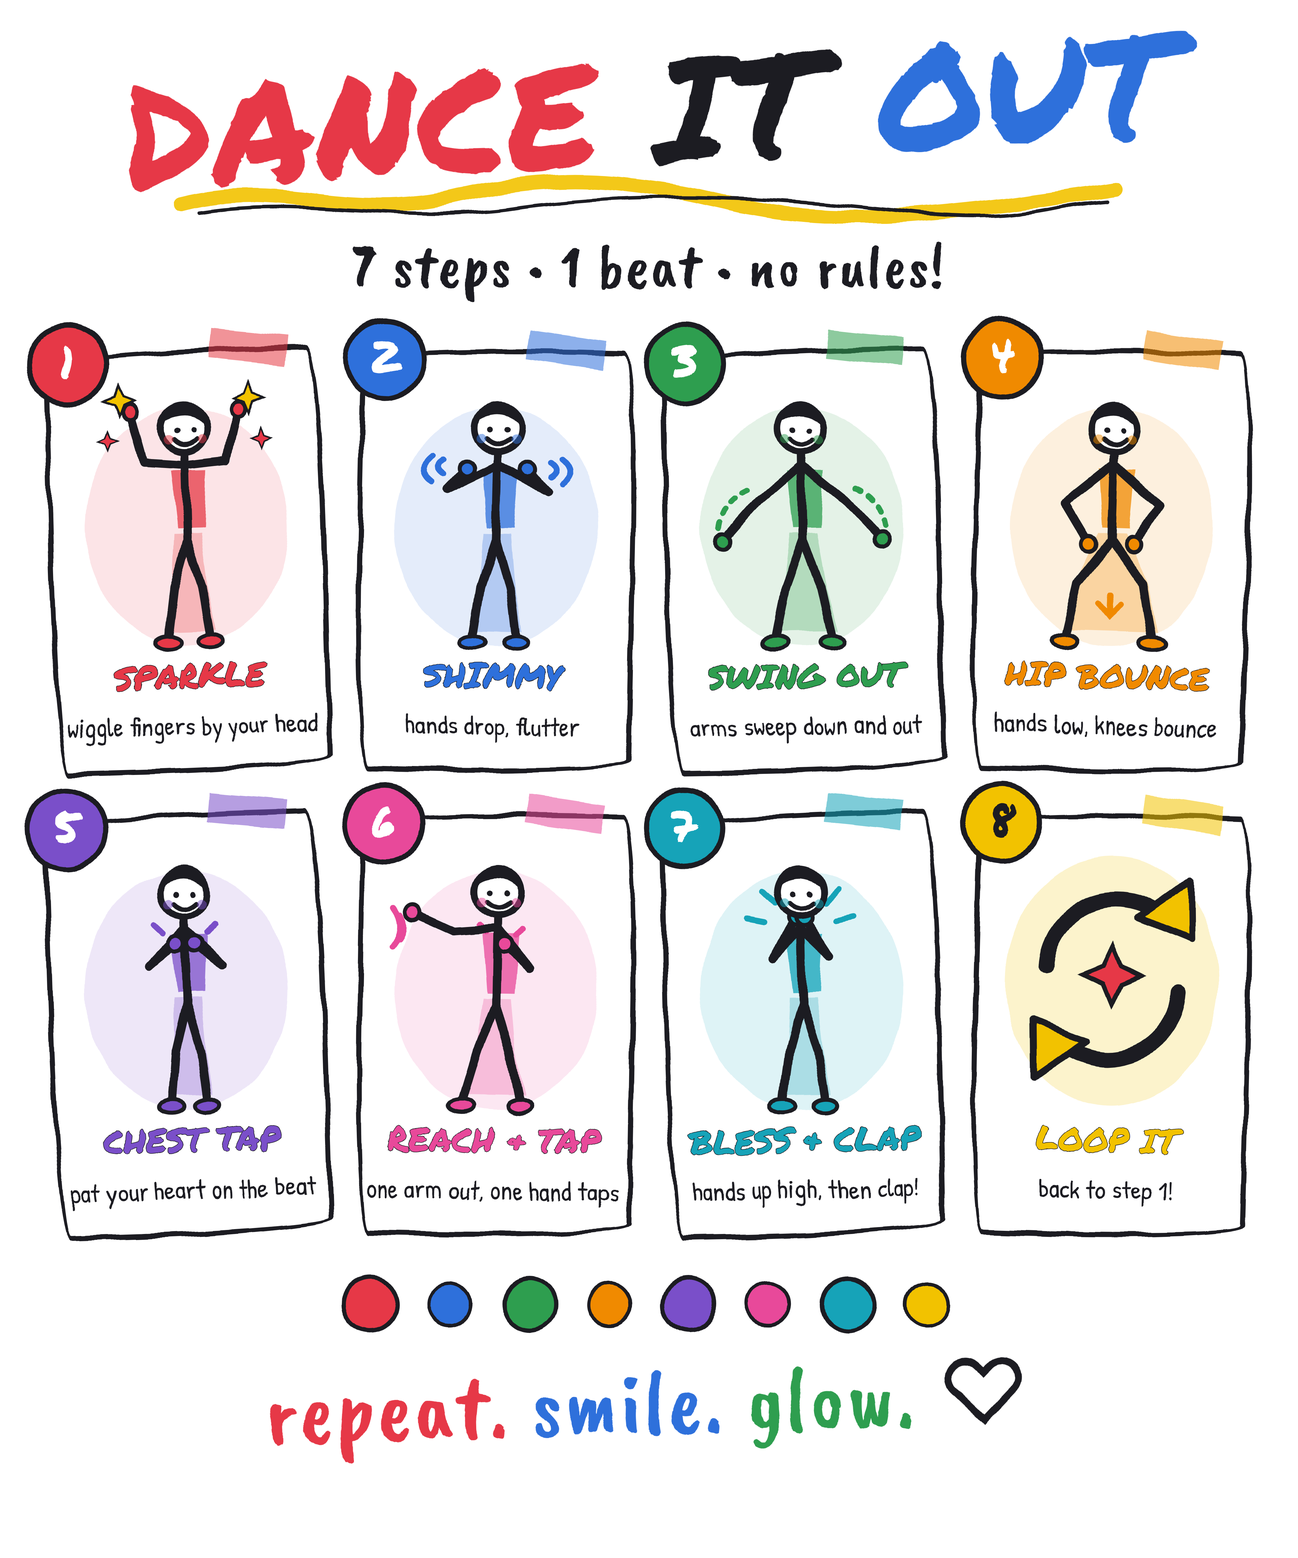
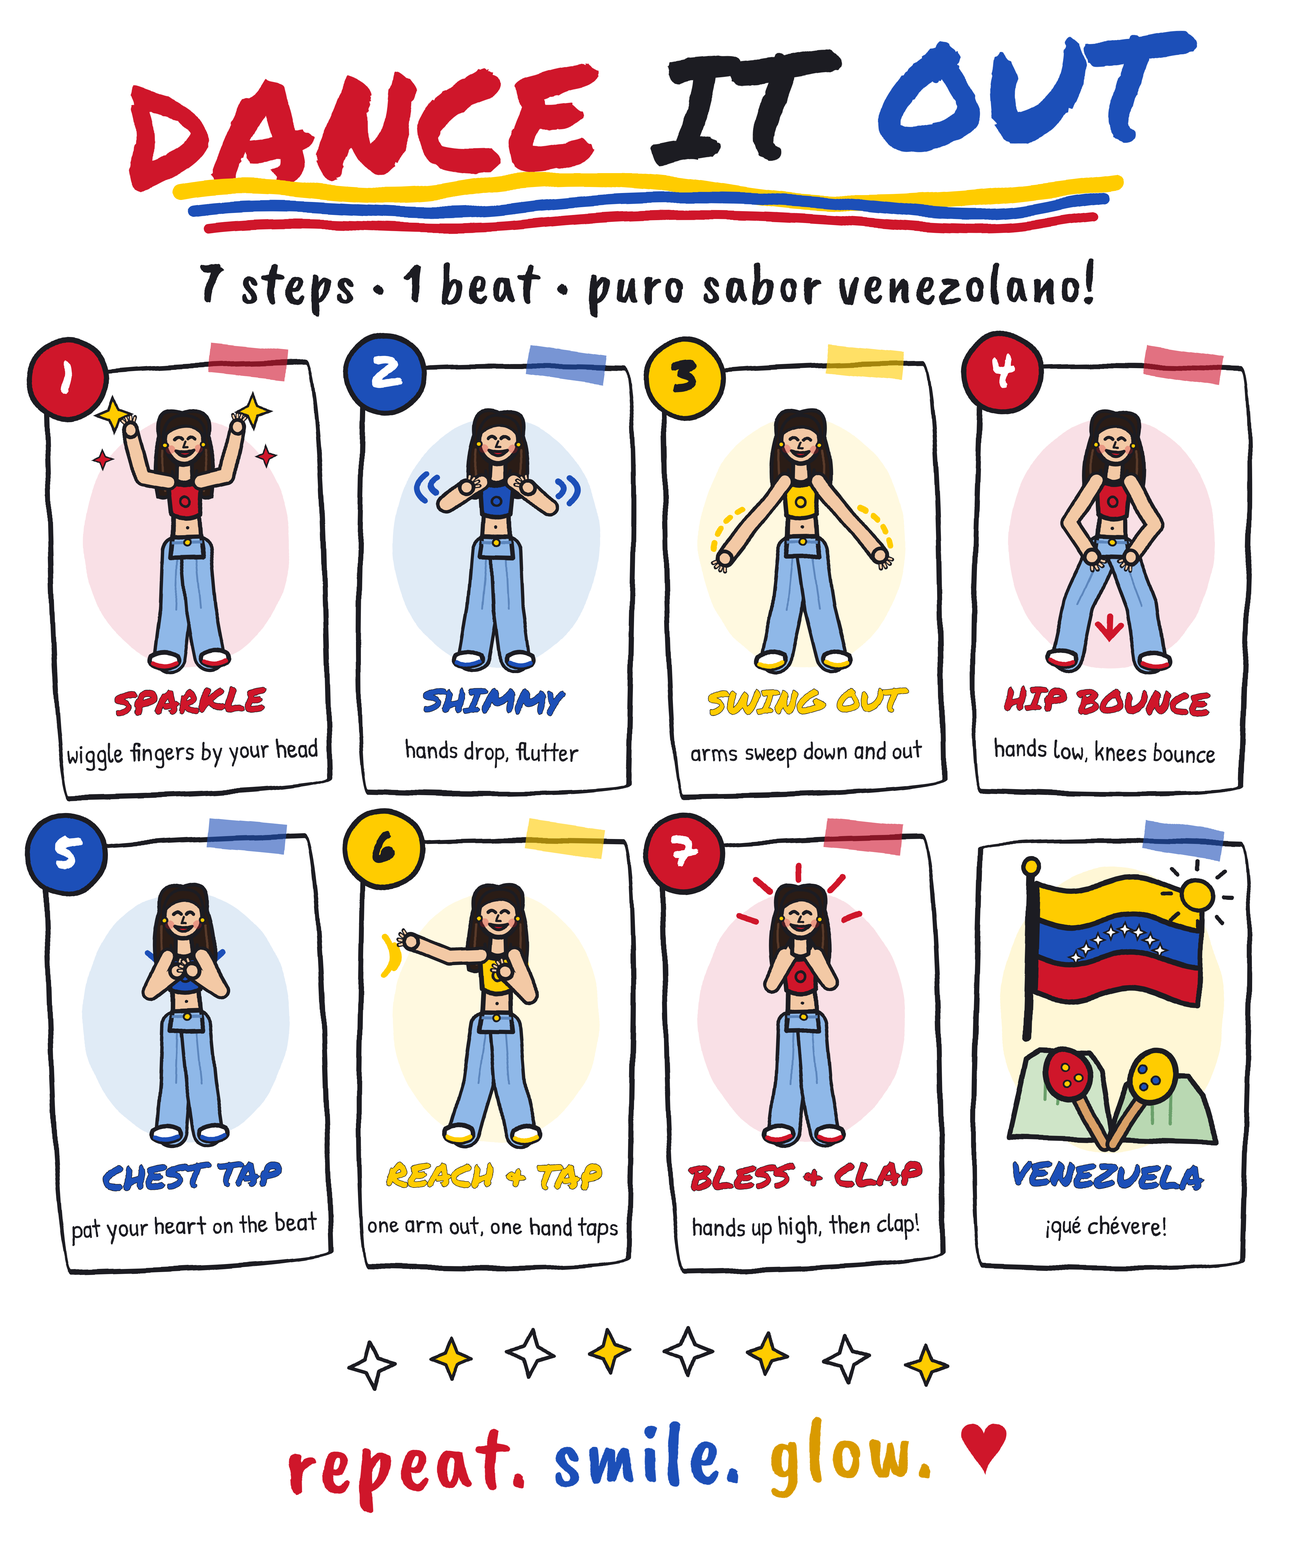
Detailed line-art dancers, Venezuelan flag theme, remove loop card
Claude-Session: https://claude.ai/code/session_01Nfcsyw4RtD1DsBygXYMqCj

diff --git a/infographic.html b/infographic.html
@@ -6,36 +6,34 @@
   @font-face{font-family:"Marker";src:url("fonts/Permanent_Marker.ttf")}
   @font-face{font-family:"Hand";src:url("fonts/Patrick_Hand.ttf")}
   @font-face{font-family:"Brush";src:url("fonts/Caveat_Brush.ttf")}
-  :root{--ink:#1d1d22;--red:#e63946;--blue:#2f6fdb;--green:#2e9e4f;--orange:#f08a00;--purple:#7a4fc9;--pink:#e84a9a;--teal:#14a3b8;--yellow:#f2c200;}
+  /* Venezuelan flag palette: yellow, blue, red */
+  :root{--ink:#1d1d22;--yellow:#ffcc00;--blue:#1d4fb8;--red:#cf142b;}
   html,body{margin:0;background:#fff;}
   #art{width:1500px;height:1800px;position:relative;overflow:hidden;color:var(--ink);background:#fff}
-  .paper{position:absolute;inset:0;pointer-events:none;
-    background:radial-gradient(ellipse at 50% 40%,rgba(255,255,255,0) 55%,rgba(120,100,60,.10) 100%);}
-  .paper svg{position:absolute;inset:0;width:100%;height:100%;opacity:.5;mix-blend-mode:multiply}
+  .paper{position:absolute;inset:0;pointer-events:none}
+  .paper svg{position:absolute;inset:0;width:100%;height:100%;opacity:.22;mix-blend-mode:multiply}
   .wob{filter:url(#wob)} .wob2{filter:url(#wob2)}
   h1{margin:0;text-align:center;font:400 168px/0.95 "Marker",cursive;padding-top:44px;transform:rotate(-3deg);letter-spacing:2px}
   h1 .r{color:var(--red)} h1 .b{color:var(--blue)}
-  .under{display:block;margin:-6px auto 0;width:1100px;height:60px}
-  .sub{text-align:center;font:400 70px "Brush",cursive;margin-top:6px;letter-spacing:2px}
-  .grid{display:grid;grid-template-columns:repeat(4,1fr);gap:44px 34px;padding:50px 56px 0;position:relative}
-  .card{border:6px solid var(--ink);border-radius:255px 18px 225px 18px/18px 225px 18px 255px;position:relative;height:480px;transform:rotate(var(--r));
-        background:rgba(255,255,255,.0)}
-  .card .tape{position:absolute;top:-22px;right:34px;width:90px;height:34px;background:var(--c);opacity:.55;transform:rotate(7deg)}
+  .under{display:block;margin:-4px auto 0;width:1100px;height:84px}
+  .sub{text-align:center;font:400 68px "Brush",cursive;margin-top:0;letter-spacing:2px}
+  .grid{display:grid;grid-template-columns:repeat(4,1fr);gap:46px 34px;padding:50px 56px 0;position:relative}
+  .card{border:6px solid var(--ink);border-radius:255px 18px 225px 18px/18px 225px 18px 255px;position:relative;height:490px;transform:rotate(var(--r))}
+  .card .tape{position:absolute;top:-22px;right:34px;width:90px;height:34px;background:var(--c);opacity:.6;transform:rotate(7deg)}
   .num{position:absolute;top:-38px;left:-26px;width:84px;height:84px;border-radius:50%;background:var(--c);border:6px solid var(--ink);
        font:400 52px/76px "Marker",cursive;text-align:center;color:#fff;z-index:2}
-  .card svg{position:absolute;left:0;top:20px;width:100%;height:335px;overflow:visible}
-  .name{position:absolute;bottom:80px;width:100%;text-align:center;font:400 38px "Marker",cursive;color:var(--c);white-space:nowrap;
+  .card svg{position:absolute;left:0;top:14px;width:100%;height:350px;overflow:visible}
+  .name{position:absolute;bottom:78px;width:100%;text-align:center;font:400 38px "Marker",cursive;color:var(--c);white-space:nowrap;
         -webkit-text-stroke:1.2px var(--ink);paint-order:stroke fill}
-  .cnt{position:absolute;bottom:30px;width:100%;text-align:center;font:400 30px "Hand",cursive;color:var(--ink);white-space:nowrap}
-  .beat{display:flex;justify-content:center;gap:26px;margin-top:44px}
-  .beat i{width:56px;height:56px;border-radius:50%;display:block;border:5px solid var(--ink)}
-  .foot{text-align:center;margin-top:14px;font:400 104px "Brush",cursive;letter-spacing:3px;transform:rotate(-1.5deg)}
-  .foot span{color:var(--red)} .foot b{color:var(--blue);font-weight:400} .foot u{color:var(--green);text-decoration:none}
+  .cnt{position:absolute;bottom:28px;width:100%;text-align:center;font:400 30px "Hand",cursive;color:var(--ink);white-space:nowrap}
+  .stars{display:block;margin:34px auto 0;width:760px;height:110px}
+  .foot{text-align:center;margin-top:0;font:400 104px "Brush",cursive;letter-spacing:3px;transform:rotate(-1.5deg)}
+  .foot span{color:var(--red)} .foot b{color:var(--blue);font-weight:400} .foot u{color:#d99a00;text-decoration:none} .foot i{color:var(--red);font-style:normal}
 </style></head>
 <body>
 <svg width="0" height="0" style="position:absolute">
   <filter id="wob" x="-5%" y="-5%" width="110%" height="110%"><feTurbulence type="fractalNoise" baseFrequency="0.018" numOctaves="2" seed="4" result="n"/>
-    <feDisplacementMap in="SourceGraphic" in2="n" scale="7" xChannelSelector="R" yChannelSelector="G"/></filter>
+    <feDisplacementMap in="SourceGraphic" in2="n" scale="6" xChannelSelector="R" yChannelSelector="G"/></filter>
   <filter id="wob2" x="-5%" y="-5%" width="110%" height="110%"><feTurbulence type="fractalNoise" baseFrequency="0.035" numOctaves="2" seed="9" result="n"/>
     <feDisplacementMap in="SourceGraphic" in2="n" scale="4" xChannelSelector="R" yChannelSelector="G"/></filter>
   <filter id="grain"><feTurbulence type="fractalNoise" baseFrequency="0.9" numOctaves="2" seed="2"/><feColorMatrix values="0 0 0 0 .55  0 0 0 0 .5  0 0 0 0 .4  0 0 0 .22 0"/></filter>
@@ -43,82 +41,147 @@
 <div id="art">
   <div class="paper"><svg><rect width="100%" height="100%" filter="url(#grain)"/></svg></div>
   <h1 class="wob2"><span class="r">DANCE</span> IT <span class="b">OUT</span></h1>
-  <svg class="under wob" viewBox="0 0 1100 60"><path d="M10 38 C120 8 200 58 320 30 S520 8 640 36 S860 56 1090 20" fill="none" stroke="#f2c200" stroke-width="16" stroke-linecap="round" opacity=".9"/>
-    <path d="M30 48 C160 28 260 62 400 42 S700 30 840 46 S1000 40 1080 34" fill="none" stroke="#1d1d22" stroke-width="4" stroke-linecap="round"/></svg>
-  <div class="sub wob2">7 steps &bull; 1 beat &bull; no rules!</div>
+  <!-- tricolour marker underline: yellow / blue / red -->
+  <svg class="under wob" viewBox="0 0 1100 84">
+    <path d="M10 22 C120 0 200 40 320 20 S520 2 640 22 S860 40 1090 10" fill="none" stroke="#ffcc00" stroke-width="18" stroke-linecap="round"/>
+    <path d="M24 44 C150 26 260 58 400 40 S700 26 840 42 S1000 36 1076 28" fill="none" stroke="#1d4fb8" stroke-width="13" stroke-linecap="round"/>
+    <path d="M40 64 C170 48 280 74 420 58 S700 48 840 60 S1000 56 1064 50" fill="none" stroke="#cf142b" stroke-width="11" stroke-linecap="round"/>
+  </svg>
+  <div class="sub wob2">7 steps &bull; 1 beat &bull; puro sabor venezolano!</div>
   <div class="grid wob" id="grid"></div>
-  <div class="beat wob" id="beat"></div>
-  <div class="foot wob2"><span>repeat.</span> <b>smile.</b> <u>glow.</u> &#9825;</div>
+  <svg class="stars wob" id="stars" viewBox="0 0 760 110"></svg>
+  <div class="foot wob2"><span>repeat.</span> <b>smile.</b> <u>glow.</u> <i>&#9829;</i></div>
 </div>
 <script>
 // Poses reconstructed from frames of a tutorial screen recording (about 3.7s, 8 fps).
-// joints on a 100x140 canvas: [x,y]
-const INK="#1d1d22";
-const base={neck:[50,32],hip:[50,80]};
-const col=["#e63946","#2f6fdb","#2e9e4f","#f08a00","#7a4fc9","#e84a9a","#14a3b8","#f2c200"];
+// Joint coordinates on a 100x140 canvas: [x,y]
+const INK="#1d1d22", SKIN="#f3c9a5", HAIR="#2b1a14", DENIM="#8fb8e8";
+const RED="#cf142b", BLUE="#1d4fb8", YEL="#ffcc00";
+const col=[RED,BLUE,YEL,RED,BLUE,YEL,RED];
 const poses=[
  {n:"SPARKLE",r:"-1.5deg",cnt:"wiggle fingers by your head",
-  lE:[27,36],lH:[20,8],rE:[73,36],rH:[80,8],lK:[42,106],lF:[38,134],rK:[58,106],rF:[62,134],fx:"spark"},
+  lE:[27,36],lH:[21,10],rE:[73,36],rH:[79,10],lK:[43,108],lF:[39,134],rK:[57,108],rF:[61,134],fx:"spark"},
  {n:"SHIMMY",r:"1.2deg",cnt:"hands drop, flutter",
-  lE:[22,52],lH:[33,40],rE:[78,52],rH:[67,40],lK:[42,106],lF:[38,134],rK:[58,106],rF:[62,134],fx:"shimmy"},
+  lE:[22,52],lH:[33,42],rE:[78,52],rH:[67,42],lK:[43,108],lF:[39,134],rK:[57,108],rF:[61,134],fx:"shimmy"},
  {n:"SWING OUT",r:"-1deg",cnt:"arms sweep down and out",
-  lE:[26,58],lH:[6,80],rE:[74,58],rH:[94,80],lK:[40,106],lF:[34,134],rK:[60,106],rF:[66,134],fx:"swish"},
+  lE:[26,58],lH:[8,80],rE:[74,58],rH:[92,80],lK:[41,108],lF:[35,134],rK:[59,108],rF:[65,134],fx:"swish"},
  {n:"HIP BOUNCE",r:"1.8deg",cnt:"hands low, knees bounce",
-  lE:[24,60],lH:[38,82],rE:[76,60],rH:[62,82],lK:[32,104],lF:[26,134],rK:[68,104],rF:[74,134],fx:"bounce"},
+  lE:[27,62],lH:[40,80],rE:[73,62],rH:[60,80],lK:[33,106],lF:[28,134],rK:[67,106],rF:[72,134],fx:"bounce"},
  {n:"CHEST TAP",r:"-1.8deg",cnt:"pat your heart on the beat",
-  lE:[30,58],lH:[45,46],rE:[70,58],rH:[55,46],lK:[43,106],lF:[40,134],rK:[57,106],rF:[60,134],fx:"tap"},
+  lE:[31,58],lH:[46,47],rE:[69,58],rH:[54,47],lK:[43,108],lF:[40,134],rK:[57,108],rF:[60,134],fx:"tap"},
  {n:"REACH & TAP",r:"1deg",cnt:"one arm out, one hand taps",
-  lE:[26,40],lH:[3,30],rE:[68,60],rH:[54,47],lK:[40,106],lF:[32,134],rK:[58,106],rF:[64,134],fx:"reach"},
+  lE:[24,40],lH:[3,32],rE:[68,60],rH:[54,48],lK:[41,108],lF:[34,134],rK:[58,108],rF:[64,134],fx:"reach"},
  {n:"BLESS & CLAP",r:"-1.2deg",cnt:"hands up high, then clap!",
-  lE:[34,54],lH:[48,32],rE:[66,54],rH:[52,32],lK:[42,106],lF:[38,134],rK:[58,106],rF:[62,134],fx:"burst"}
+  lE:[34,54],lH:[48,33],rE:[66,54],rH:[52,33],lK:[43,108],lF:[39,134],rK:[57,108],rF:[61,134],fx:"burst"}
 ];
-const L=(a,b,w,c)=>`<line x1="${a[0]}" y1="${a[1]}" x2="${b[0]}" y2="${b[1]}" stroke="${c}" stroke-width="${w}" stroke-linecap="round"/>`;
+const P=(a)=>a[0]+" "+a[1];
+const line=(a,b,w,c)=>`<line x1="${a[0]}" y1="${a[1]}" x2="${b[0]}" y2="${b[1]}" stroke="${c}" stroke-width="${w}" stroke-linecap="round"/>`;
+// outlined "tube" limb through a chain of points: ink outline first, then fill on top (no inner joint lines)
+function tube(pts,w,fill){
+  let o="",f="";
+  for(let i=0;i<pts.length-1;i++){o+=line(pts[i],pts[i+1],w+3.6,INK);f+=line(pts[i],pts[i+1],w,fill);}
+  return o+f;
+}
 const star=(x,y,s,c)=>`<path transform="translate(${x} ${y}) scale(${s})" d="M0 -7l2 5 5 2-5 2-2 5-2-5-5-2 5-2z" fill="${c}" stroke="${INK}" stroke-width="1"/>`;
 function fx(p,c){
   const T=p.fx,S=`stroke="${c}" stroke-width="3.2" fill="none" stroke-linecap="round"`;
-  if(T==="spark")return star(14,2,1.2,"#f2c200")+star(86,2,1.2,"#f2c200")+star(8,24,.8,c)+star(92,24,.8,c);
-  if(T==="shimmy")return `<path d="M20 36q-6 4 0 8M14 34q-9 7 0 14M80 36q6 4 0 8M86 34q9 7 0 14" ${S}/>`;
-  if(T==="swish")return `<path d="M20 52q-14 6-16 22M80 52q14 6 16 22" ${S} stroke-dasharray="3 5"/>`;
-  if(T==="bounce")return `<path d="M50 110v10m-6-5l6 7 6-7" ${S}/>`;
-  if(T==="tap")return `<path d="M38 40l-5-5M62 40l5-5M50 36v-6" ${S}/>`;
-  if(T==="reach")return `<path d="M-4 44q4-6 0-12M-8 48q8-10 0-20" ${S}/><path d="M44 40l-4-4M60 42l4-4" ${S}/>`;
-  if(T==="burst")return `<path d="M50 20v-10M36 24l-7-7M64 24l7-7M30 34l-10-2M70 34l10-2" ${S}/>`;
+  if(T==="spark")return star(12,2,1.3,YEL)+star(88,2,1.3,YEL)+star(6,26,.8,c)+star(94,26,.8,c);
+  if(T==="shimmy")return `<path d="M17 38q-6 4 0 8M11 36q-9 7 0 14M83 38q6 4 0 8M89 36q9 7 0 14" ${S}/>`;
+  if(T==="swish")return `<path d="M18 54q-14 6-16 24M82 54q14 6 16 24" ${S} stroke-dasharray="3 5"/>`;
+  if(T==="bounce")return `<path d="M50 112v10m-6-5l6 7 6-7" ${S}/>`;
+  if(T==="tap")return `<path d="M36 42l-6-5M64 42l6-5M50 38v-8" ${S}/>`;
+  if(T==="reach")return `<path d="M-6 46q4-6 0-12M-11 50q8-10 0-20" ${S}/><path d="M60 46l-3-5M66 48l-1-6" ${S}/>`;
+  if(T==="burst")return `<path d="M50 -2v-8M34 4l-7-7M66 4l7-7M26 20l-9-3M74 20l9-3" ${S}/>`;
   return "";
 }
+function fingers(e,h){
+  const dx=h[0]-e[0],dy=h[1]-e[1],m=Math.hypot(dx,dy)||1,ux=dx/m,uy=dy/m;
+  let s="";
+  [-34,-12,12,34].forEach(a=>{const r=a*Math.PI/180,c=Math.cos(r),sn=Math.sin(r);
+    const vx=ux*c-uy*sn,vy=ux*sn+uy*c;
+    s+=`<line x1="${h[0]+vx*3}" y1="${h[1]+vy*3}" x2="${h[0]+vx*7}" y2="${h[1]+vy*7}" stroke="${INK}" stroke-width="2.2" stroke-linecap="round"/>`;
+    s+=`<line x1="${h[0]+vx*3}" y1="${h[1]+vy*3}" x2="${h[0]+vx*6.6}" y2="${h[1]+vy*6.6}" stroke="${SKIN}" stroke-width="1" stroke-linecap="round"/>`;});
+  return s;
+}
 function figure(p,c){
-  const sh=[50,38];
-  // marker-coloured shirt, slightly off the lines like real colouring
-  const shirt=`<path d="M40 40 L60 40 L58 72 L43 72 Z" fill="${c}" opacity=".75" transform="translate(2 1)"/>`;
-  const pants=`<path d="M43 76 L58 76 L${p.rK[0]+3} ${p.rK[1]} L${p.rF[0]+3} ${p.rF[1]-4} L${p.lF[0]-1} ${p.lF[1]-4} L${p.lK[0]-1} ${p.lK[1]} Z" fill="${c}" opacity=".28"/>`;
-  const body=L(base.neck,base.hip,4.6,INK)+
-    L(sh,p.lE,4.6,INK)+L(p.lE,p.lH,4.6,INK)+L(sh,p.rE,4.6,INK)+L(p.rE,p.rH,4.6,INK)+
-    L(base.hip,p.lK,4.8,INK)+L(p.lK,p.lF,4.8,INK)+L(base.hip,p.rK,4.8,INK)+L(p.rK,p.rF,4.8,INK);
-  const hands=[p.lH,p.rH].map(h=>`<circle cx="${h[0]}" cy="${h[1]}" r="4.2" fill="${c}" stroke="${INK}" stroke-width="2.2"/>`).join("");
-  const shoes=[p.lF,p.rF].map(f=>`<ellipse cx="${f[0]}" cy="${f[1]+2}" rx="7" ry="3.6" fill="${c}" stroke="${INK}" stroke-width="2.2"/>`).join("");
-  const head=`<circle cx="50" cy="18" r="13" fill="#fff" stroke="${INK}" stroke-width="3.6"/>
-    <path d="M37 16 Q40 3 52 5 Q63 6 63 17 Q55 9 46 11 Q40 12 37 16Z" fill="${INK}"/>
-    <circle cx="45.5" cy="19" r="1.6" fill="${INK}"/><circle cx="55" cy="19" r="1.6" fill="${INK}"/>
-    <path d="M44 24 Q50 30 57 24" stroke="${INK}" stroke-width="2.6" fill="none" stroke-linecap="round"/>
-    <circle cx="41" cy="24" r="2.6" fill="${c}" opacity=".5"/><circle cx="60" cy="24" r="2.6" fill="${c}" opacity=".5"/>`;
-  return pants+shirt+body+hands+shoes+head;
+  const sL=[41,39],sR=[59,39],hipL=[45,77],hipR=[55,77];
+  // long dark hair behind the body
+  const hairBack=`<path d="M37 14Q35 -3 50 2Q66 -3 63 14Q68 30 65 47Q58 50 57 41L43 41Q42 50 35 47Q32 30 37 14Z" fill="${HAIR}" stroke="${INK}" stroke-width="2"/>
+    <path d="M38 22Q37 34 39 44M62 22Q63 34 61 44" stroke="#5a3a2a" stroke-width="1.2" fill="none" stroke-linecap="round"/>`;
+  // wide-leg jeans
+  const legs=tube([hipL,p.lK,p.lF],14.5,DENIM)+tube([hipR,p.rK,p.rF],14.5,DENIM);
+  const seams=line(hipL,p.lK,1,"#5b86bd")+line(hipR,p.rK,1,"#5b86bd");
+  const waist=`<path d="M42.5 68H57.5L59 80H41Z" fill="${DENIM}" stroke="${INK}" stroke-width="2.4" stroke-linejoin="round"/>
+    <path d="M42 72H58" stroke="#5b86bd" stroke-width="1.6"/><circle cx="50" cy="72" r="1.8" fill="${YEL}" stroke="${INK}" stroke-width="1"/>`;
+  const shoes=[[p.lF,-3],[p.rF,3]].map(([f,dx])=>`<path d="M${f[0]-7+dx} ${f[1]-1}Q${f[0]+dx} ${f[1]-5} ${f[0]+7+dx} ${f[1]-1}Q${f[0]+10+dx} ${f[1]+5} ${f[0]+dx} ${f[1]+6}Q${f[0]-10+dx} ${f[1]+5} ${f[0]-7+dx} ${f[1]-1}Z" fill="#fff" stroke="${INK}" stroke-width="2.4" stroke-linejoin="round"/>
+    <path d="M${f[0]-6+dx} ${f[1]+3}Q${f[0]+dx} ${f[1]+6} ${f[0]+6+dx} ${f[1]+3}" stroke="${c}" stroke-width="2.4" fill="none" stroke-linecap="round"/>`).join("");
+  // midriff + halter crop top
+  const mid=`<path d="M43 56Q50 60 57 56L57.5 69H42.5Z" fill="${SKIN}" stroke="${INK}" stroke-width="2.4" stroke-linejoin="round"/><circle cx="50" cy="64" r=".9" fill="${INK}"/>`;
+  const top=`<path d="M40.5 38Q50 44 59.5 38L58 57Q50 61 42 57Z" fill="${c}" stroke="${INK}" stroke-width="2.4" stroke-linejoin="round"/>
+    <circle cx="50" cy="50" r="2.6" fill="none" stroke="${INK}" stroke-width="1.4"/><path d="M45 41L43 33M55 41L57 33" stroke="${INK}" stroke-width="1.6" stroke-linecap="round"/>`;
+  // arms
+  const arms=tube([sL,p.lE,p.lH],6.4,SKIN)+tube([sR,p.rE,p.rH],6.4,SKIN);
+  const hands=[p.lH,p.rH].map((h,i)=>fingers(i?p.rE:p.lE,h)+`<circle cx="${h[0]}" cy="${h[1]}" r="3.8" fill="${SKIN}" stroke="${INK}" stroke-width="2"/>`).join("");
+  // neck + head + face
+  const neck=`<path d="M46 27H54L54.5 38Q50 41 45.5 38Z" fill="${SKIN}" stroke="${INK}" stroke-width="2.2" stroke-linejoin="round"/>`;
+  const head=`<ellipse cx="50" cy="17" rx="10.5" ry="12.5" fill="${SKIN}" stroke="${INK}" stroke-width="2.6"/>
+    <path d="M39 15Q40 2 52 3.5Q62 4 61 15Q57 8 49 9Q42 10 39 15Z" fill="${HAIR}" stroke="${INK}" stroke-width="1.6" stroke-linejoin="round"/>
+    <path d="M44.5 16Q46.5 13.8 48.5 16M51.5 16Q53.5 13.8 55.5 16" stroke="${INK}" stroke-width="1.8" fill="none" stroke-linecap="round"/>
+    <path d="M50 17.5l-1.2 3.2h2.4" stroke="${INK}" stroke-width="1.2" fill="none" stroke-linecap="round" stroke-linejoin="round"/>
+    <path d="M45 22.4Q50 28.5 55 22.4Q50 24 45 22.4Z" fill="${RED}" stroke="${INK}" stroke-width="1.6" stroke-linejoin="round"/>
+    <circle cx="42.3" cy="21.5" r="2.4" fill="${RED}" opacity=".28"/><circle cx="57.7" cy="21.5" r="2.4" fill="${RED}" opacity=".28"/>
+    <circle cx="39.6" cy="19" r="1.5" fill="${YEL}" stroke="${INK}" stroke-width="1"/><circle cx="60.4" cy="19" r="1.5" fill="${YEL}" stroke="${INK}" stroke-width="1"/>`;
+  return hairBack+legs+seams+waist+shoes+mid+top+arms+hands+neck+head;
 }
 const grid=document.getElementById("grid");
 poses.forEach((p,i)=>{
-  const c=col[i];
+  const c=col[i], numCol=(c===YEL)?INK:"#fff";
   grid.insertAdjacentHTML("beforeend",
-   `<div class="card" style="--c:${c};--r:${p.r}"><div class="tape"></div><div class="num">${i+1}</div>
-    <svg viewBox="-14 -14 128 160"><ellipse cx="50" cy="72" rx="56" ry="66" fill="${c}" opacity=".13"/>${fx(p,c)}${figure(p,c)}</svg>
-    <div class="name" style="--c:${c}">${p.n}</div><div class="cnt">${p.cnt}</div></div>`);
+   `<div class="card" style="--c:${c};--r:${p.r}"><div class="tape"></div><div class="num" style="color:${numCol}">${i+1}</div>
+    <svg viewBox="-14 -16 128 164"><ellipse cx="50" cy="72" rx="56" ry="68" fill="${c}" opacity=".12"/>${fx(p,c)}${figure(p,c)}</svg>
+    <div class="name">${p.n}</div><div class="cnt">${p.cnt}</div></div>`);
 });
-// card 8: loop
-const c8=col[7];
+
+// ---- 8th cell: Venezuelan panel (waving flag, 8 stars, tepui mountains, maracas) ----
+function flag(){
+  const x0=14,x1=90,W=(x)=>3.6*Math.sin((x-14)/9.5);
+  const stripe=(k,fill)=>{
+    const t=14+k*17,b=t+17;let a="",d="";
+    for(let x=x0;x<=x1;x+=2){a+=`${x===x0?"M":"L"}${x} ${(t+W(x)).toFixed(1)} `;}
+    for(let x=x1;x>=x0;x-=2){d+=`L${x} ${(b+W(x)).toFixed(1)} `;}
+    return `<path d="${a}${d}Z" fill="${fill}" stroke="${INK}" stroke-width="2.4" stroke-linejoin="round"/>`;
+  };
+  let st="";
+  for(let i=0;i<8;i++){
+    const ang=(-140+i*(100/7))*Math.PI/180,x=52+22*Math.cos(ang),y=14+17*1.5+ -22*Math.sin(ang)*0.0 + (22-22*Math.cos((-40-(-140))*Math.PI/360)*0) ;
+    const px=52+23*Math.sin((i-3.5)*0.28), py=31+17-6+W(px)+ (Math.abs(i-3.5)*Math.abs(i-3.5))*0.55 -4;
+    st+=`<path transform="translate(${px.toFixed(1)} ${py.toFixed(1)}) scale(.46)" d="M0 -7l2 5 5 2-5 2-2 5-2-5-5-2 5-2z" fill="#fff" stroke="${INK}" stroke-width="1.6"/>`;
+  }
+  return `<line x1="11" y1="8" x2="11" y2="86" stroke="${INK}" stroke-width="4" stroke-linecap="round"/><circle cx="11" cy="7" r="3.6" fill="${YEL}" stroke="${INK}" stroke-width="2"/>`+
+    stripe(0,YEL)+stripe(1,BLUE)+stripe(2,RED)+st;
+}
+const maraca=(hx,hy,bx,by,fill,dots)=>`<line x1="${hx}" y1="${hy}" x2="${bx}" y2="${by}" stroke="${INK}" stroke-width="7" stroke-linecap="round"/><line x1="${hx}" y1="${hy}" x2="${bx}" y2="${by}" stroke="#d9a066" stroke-width="3.4" stroke-linecap="round"/>
+  <ellipse cx="${hx}" cy="${hy-6}" rx="10" ry="12" fill="${fill}" stroke="${INK}" stroke-width="2.6" transform="rotate(${hx<50?-18:18} ${hx} ${hy})"/>
+  <g fill="${dots}" stroke="${INK}" stroke-width=".8"><circle cx="${hx-3}" cy="${hy-9}" r="1.8"/><circle cx="${hx+3}" cy="${hy-4}" r="1.8"/><circle cx="${hx-2}" cy="${hy-1}" r="1.6"/></g>`;
 grid.insertAdjacentHTML("beforeend",
- `<div class="card" style="--c:${c8};--r:1.6deg"><div class="tape"></div><div class="num" style="color:#1d1d22">8</div>
-  <svg viewBox="0 0 100 130"><ellipse cx="50" cy="66" rx="48" ry="56" fill="${c8}" opacity=".2"/>
-   <g fill="none" stroke="${INK}" stroke-width="7" stroke-linecap="round"><path d="M20 60a32 32 0 0 1 56-20"/><path d="M80 70a32 32 0 0 1-56 20"/></g>
-   <path d="M84 20l1 26-24-9z" fill="${c8}" stroke="${INK}" stroke-width="3" stroke-linejoin="round"/><path d="M16 110l-1-26 24 9z" fill="${c8}" stroke="${INK}" stroke-width="3" stroke-linejoin="round"/>
-   <path d="M50 50l4 9 9 4-9 4-4 9-4-9-9-4 9-4z" fill="${col[0]}" stroke="${INK}" stroke-width="2"/></svg>
-  <div class="name" style="--c:${c8}">LOOP IT</div><div class="cnt">back to step 1!</div></div>`);
-const beat=document.getElementById("beat");
-for(let i=0;i<8;i++)beat.insertAdjacentHTML("beforeend",`<i style="background:${col[i%8]};transform:scale(${i%2?.8:1})"></i>`);
+ `<div class="card" style="--c:${BLUE};--r:1.6deg"><div class="tape"></div>
+  <svg viewBox="-4 0 108 140"><ellipse cx="50" cy="72" rx="52" ry="66" fill="${YEL}" opacity=".16"/>
+   <path d="M4 132L11 96L17 92H40L46 100L52 132Z" fill="#cfe5c8" stroke="${INK}" stroke-width="2.4" stroke-linejoin="round"/>
+   <path d="M50 132L58 106L64 102H86L93 110L100 132Z" fill="#b9d8b2" stroke="${INK}" stroke-width="2.4" stroke-linejoin="round"/>
+   <path d="M20 100v14M26 98v18M70 112v12M78 110v14" stroke="#6aa06a" stroke-width="1.4" stroke-linecap="round"/>
+   ${flag()}
+   ${maraca(32,108,48,134,RED,YEL)}${maraca(68,108,52,134,YEL,BLUE)}
+   <g transform="translate(88 18)"><circle r="7" fill="${YEL}" stroke="${INK}" stroke-width="2"/><path d="M0 -12v-4M0 12v4M-12 0h-4M12 0h4M-9 -9l-3 -3M9 -9l3 -3M-9 9l-3 3M9 9l3 3" stroke="${INK}" stroke-width="1.8" stroke-linecap="round"/></g>
+  </svg>
+  <div class="name">VENEZUELA</div><div class="cnt">&iexcl;qu&eacute; ch&eacute;vere!</div></div>`);
+
+// row of 8 stars along a gentle arc, like the stars on the flag
+(function(){
+  let s="";
+  for(let i=0;i<8;i++){
+    const x=60+i*91.4,y=58-Math.cos((i-3.5)/3.5*1.2)*26+26;
+    s+=`<path transform="translate(${x} ${y}) scale(${i%2?3.4:3.9}) rotate(${(i%3-1)*6})" d="M0 -7l2 5 5 2-5 2-2 5-2-5-5-2 5-2z" fill="${i%2?YEL:"#fff"}" stroke="${INK}" stroke-width="1.1" stroke-linejoin="round"/>`;
+  }
+  document.getElementById("stars").innerHTML=s;
+})();
 </script></body></html>
